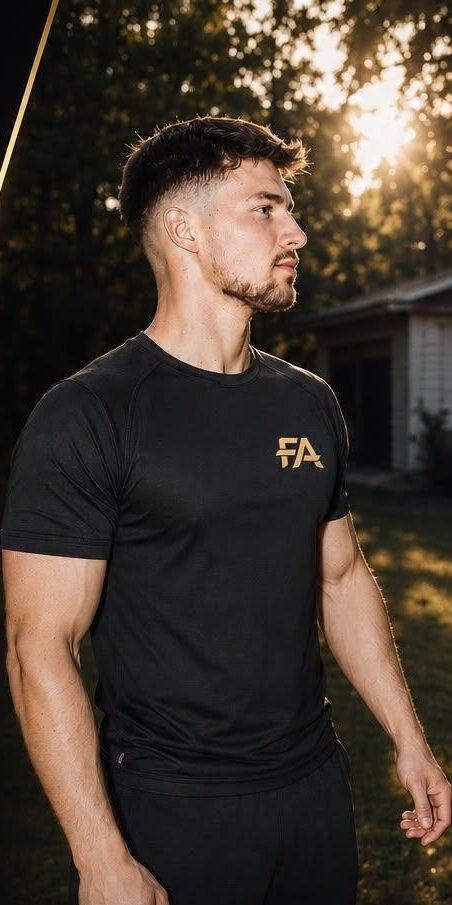
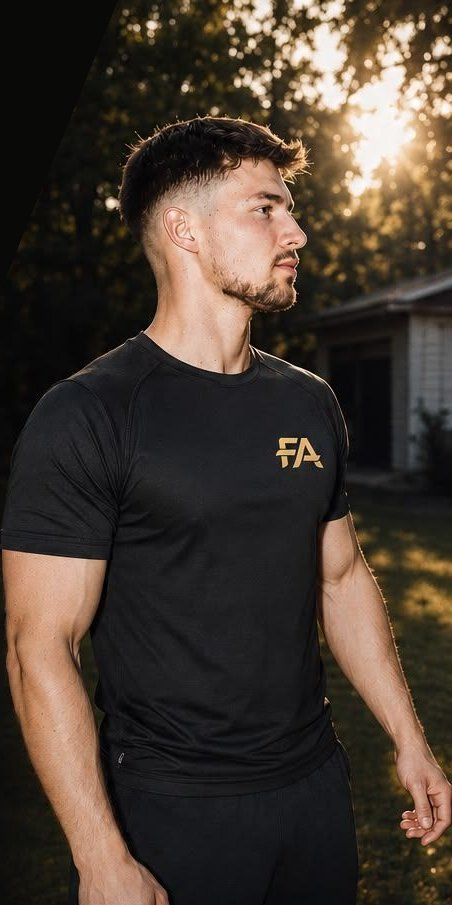
Use Fabio photo in About section, remove duplicate hero diagonal, clean photo edge

Changed region(s): [[0.0, 0.0, 0.2478, 0.2785]]

diff --git a/fabio-antunes-app/website/assets/site.css b/fabio-antunes-app/website/assets/site.css
@@ -435,7 +435,7 @@ h1, h2, h3 { line-height: 1.1; font-weight: 800; letter-spacing: -0.01em; }
 /* Hero mit Foto-Hintergrund (Fabio in der Sonne) */
 .hero { min-height: 92vh; display: flex; align-items: center; padding: 84px 0 56px; }
 .hero-photo { position: absolute; inset: 0; z-index: -2; background-color: #000;
-  background-image: url('fabio-hero.jpg'); background-repeat: no-repeat;
+  background-image: var(--fabio-photo); background-repeat: no-repeat;
   background-size: cover; background-position: 50% 10%; }
 /* Lese-Overlay: links abdunkeln, unten weich auslaufen */
 .hero-photo::after { content: ""; position: absolute; inset: 0;
@@ -488,3 +488,11 @@ h1, h2, h3 { line-height: 1.1; font-weight: 800; letter-spacing: -0.01em; }
 /* Karten etwas hochwertiger (weg vom „grauen" Look) */
 .card { background: linear-gradient(180deg, #1b1b1b, #141414); }
 .plan { background: linear-gradient(180deg, #1b1b1b, #131313); }
+
+/* Foto als Variable (wird in der Ionos-Version einmalig eingebettet) */
+:root { --fabio-photo: url('fabio-hero.jpg'); }
+/* Doppelte Diagonale entfernt – saubere weiche Kante über das Overlay */
+.hero-slash { display: none !important; }
+/* „Über mich"-Bild: echtes Foto statt FA-Platzhalter */
+.about-photo { background-image: var(--fabio-photo) !important; background-size: cover; background-position: 50% 14%; background-repeat: no-repeat; background-color: #000; }
+.about-photo .mark { display: none; }

diff --git a/fabio-antunes-app/website/index.html b/fabio-antunes-app/website/index.html
@@ -91,7 +91,6 @@
 <!-- ===================== Hero ===================== -->
 <section class="hero">
   <div class="hero-photo"></div>
-  <div class="hero-slash"></div>
   <div class="container hero-inner">
     <div class="hero-content">
       <span class="hero-badge"><span class="dot"></span>Premium Personal Training · Königs Wusterhausen</span>
@@ -293,7 +292,7 @@
 <!-- ===================== Über mich ===================== -->
 <section class="section" id="ueber-mich">
   <div class="container about-grid about">
-    <div class="about-photo"><div class="mark">FA</div></div>
+    <div class="about-photo"></div>
     <div>
       <span class="eyebrow">Über mich</span>
       <h2 class="h-md" style="margin-bottom:16px;">Fitness als selbstverständlicher Teil des Lebens</h2>